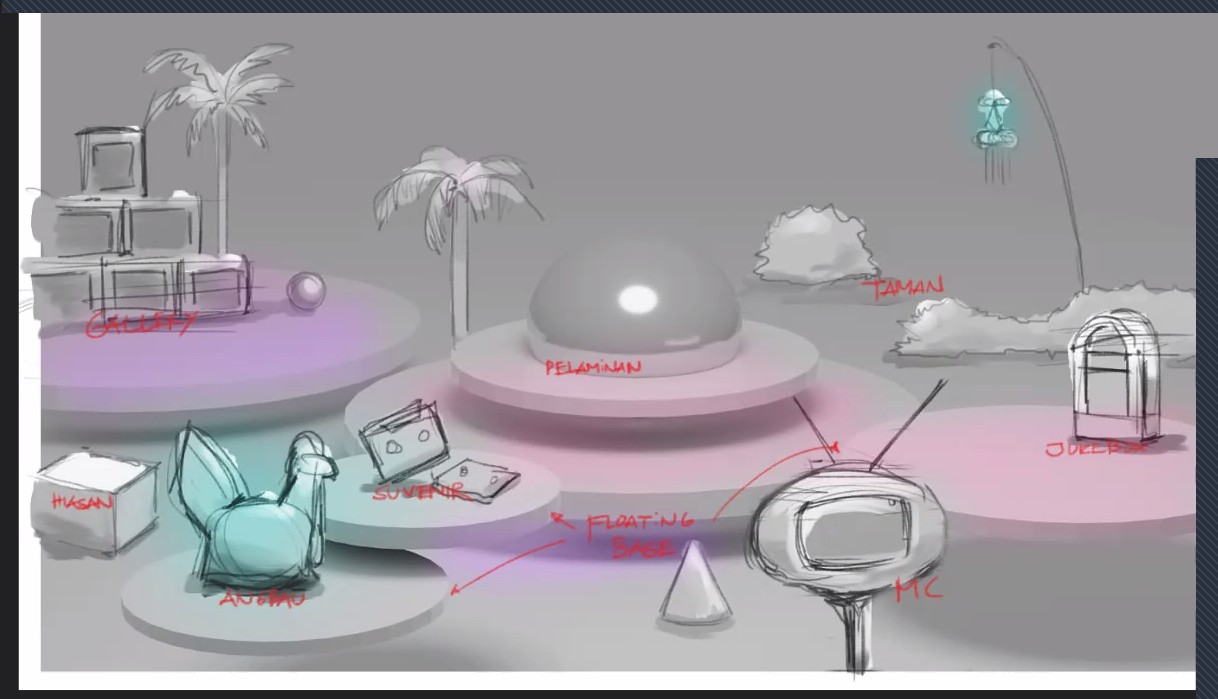
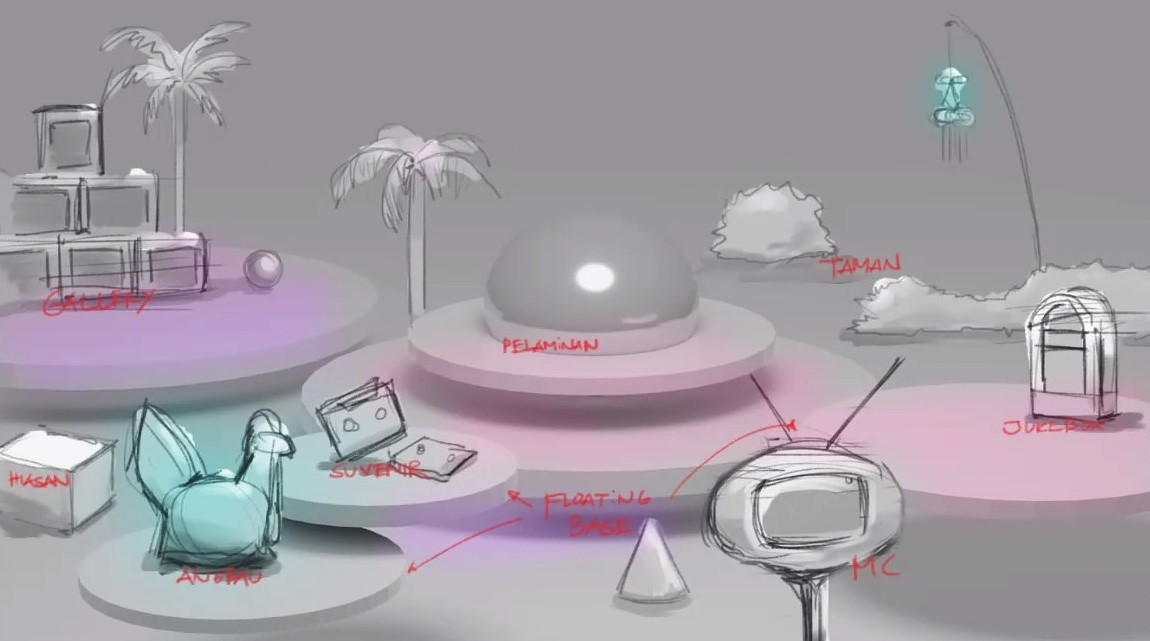
edit

diff --git a/css/style.css b/css/style.css
@@ -262,11 +262,12 @@ body {
   border: 0;
   background-color: white;
   font-weight: bold;
+  margin-top: 5px;
 }
 
 .popover-content {
   height: 60px;
-  margin-bottom: 20px;
+  margin-bottom: 30px;
 }
 
 .popover-navigation .btn-sm{
@@ -356,13 +357,12 @@ body {
 }
 
 .souvenir-page{
-  background-image: url("../images/background2.jpg") !important;
+  background-color: lightblue;
 }
 
 /* Header */
 .header {
   position: absolute;
-  z-index: 1;
   overflow: hidden;
   width: 70%;
   padding: 1.5%;
@@ -388,6 +388,7 @@ body {
 .header-div {
   display: inline-block;
   width: 60%;
+  /* z-index: 10; */
 }
 
 .info{
@@ -397,8 +398,8 @@ body {
 /* Scene Parallax */
 .planet {
   position: absolute;
-  top: 40%;
-  left: 45%;
+  top: 30%;
+  left: 65%;
 }
 
 .layer {
@@ -406,14 +407,23 @@ body {
 }
 
 /* LIVE MC */
+
+.mc{
+  position: absolute;
+  left: 60%;
+  bottom: 0;
+  width: 20%;
+  height: 40%;
+}
+
 .live-mc{
   position: absolute;
-  left: 59%;
-  top: 50%;
+  left: 60%;
+  bottom: 0%;
   width: 20%;
   height: 50%;
   background: url('../images/png-seq/tvmc.png');
-  background-position: center;
+  background-position: bottom;
   background-repeat: no-repeat;
   background-size: 100% auto;
   z-index: 2;
@@ -421,8 +431,8 @@ body {
 
 .video-mc{
   position: absolute;
-  left: 63.7%;
-  top: 76%;
+  left: 65%;
+  bottom: 8%;
   width: 11%;
   height: 17%;
 }
@@ -434,6 +444,9 @@ body {
   position: absolute;
   top: 41%;
   left: 20%;
+  display: inline-block;
+  -webkit-mask-box-image: url(../images/circle.svg);
+
 }
 
 /* SOUVENIR */
@@ -585,7 +598,7 @@ body {
 /* New toggle */
 .checkbox {
   opacity: 0;
-  /* position: absolute; */
+  position: absolute;
 }
 
 .label {
@@ -595,7 +608,7 @@ body {
   align-items: center;
   justify-content: space-between;
   padding: 5px;
-  position: relative;
+  position: relative !important;
   height: 20px;
   width: 40px;
   transform: scale(1.5);

diff --git a/homepage.html b/homepage.html
@@ -93,23 +93,12 @@
   </div>
 
   <!-- FAQ Modal -->
-  <!-- <div id="faqModal" class="modal">
+  <div id="faqModal" class="modal">
       <div class="modal-content content-faq">
         <span class="close">&times;</span>
         <h4 class="lang" key="">Frequently Asked Questions</h4>
-        <ol>
-          <li>Pertanyaan pertama?</li>
-          <li>Pertanyaan kedua?</li>
-        </ol>
-        <h5>Contact Customer Service</h5>
-        <a href="https://wa.me/6281386626186" target="_blank">
-          <button class="chat" type="button" name="button">
-            <i class="fab fa-whatsapp fa-2x"></i>
-            <p>Click to chat</p>
-          </button>
-        </a>
       </div>
-  </div> -->
+  </div>
 
   <!-- Angpao Modal -->
   <div id="angpaoModal" class="modal">
@@ -153,13 +142,8 @@
         </label>
 
         <img id="info" class="header-icon info" src="images/information.svg" alt="">
-        <!-- FAQ -->
-          <img id="faq" class="header-icon" src="images/faq.svg" alt="">
-      </div>
 
-      <!-- Info web tour -->
-      <div class="header-div">
-
+        <img id="faq" class="header-icon" src="images/faq.svg" alt="">
       </div>
 
 
@@ -174,13 +158,13 @@
         </div>
       </div>
 
-    <!-- </div> -->
 
       <div id="live-mc" class="live-mc"></div>
 
       <div class="video-mc embed-responsive">
         <iframe class="embed-responsive-item" width="560" height="315" src="https://www.youtube.com/embed/6ksnNqA302I?autoplay=1" frameborder="0" allow="accelerometer; autoplay; encrypted-media; gyroscope; picture-in-picture" allowfullscreen></iframe>
       </div>
+
 
       <div id="angpao" class="angpao">
         <img src="images/png-seq/staticayam.png" alt="">

diff --git a/index.js b/index.js
@@ -243,6 +243,7 @@ $(document).ready(function() {
   // When the user clicks on (x), close the modal
   $("span").click(function() {
     $("#angpaoModal").css("display", "none");
+    $("#faqModal").css("display", "none");
   });
 
   // Select language @ modal
@@ -267,9 +268,10 @@ $(document).ready(function() {
 
   // When the user clicks anywhere outside of the modal, close it
   $(window).click(function(e) {
-    if ((e.target.id == "angpaoModal") || (e.target.id == "earlyBird")) {
+    if ((e.target.id == "angpaoModal") || (e.target.id == "earlyBird")  || (e.target.id == "faqModal")) {
       $("#angpaoModal").css("display", "none");
       $("#earlyBird").css("display", "none");
+      $("#faqModal").css("display", "none");
     }
   });
 

diff --git a/Vcall/index.html b/Vcall/index.html
@@ -12,7 +12,7 @@
   <link rel="stylesheet" href="https://stackpath.bootstrapcdn.com/bootstrap/4.3.1/css/bootstrap.min.css" integrity="sha384-ggOyR0iXCbMQv3Xipma34MD+dH/1fQ784/j6cY/iJTQUOhcWr7x9JvoRxT2MZw1T" crossorigin="anonymous">
 
   <link rel="stylesheet" href="./assets/common.css" />
-  <link rel="stylesheet" href="css/test.css">
+  <link rel="stylesheet" href="css/style.css">
 
   <!-- Parallax -->
   <script src="https://cdnjs.cloudflare.com/ajax/libs/parallax/3.1.0/parallax.min.js"></script>
